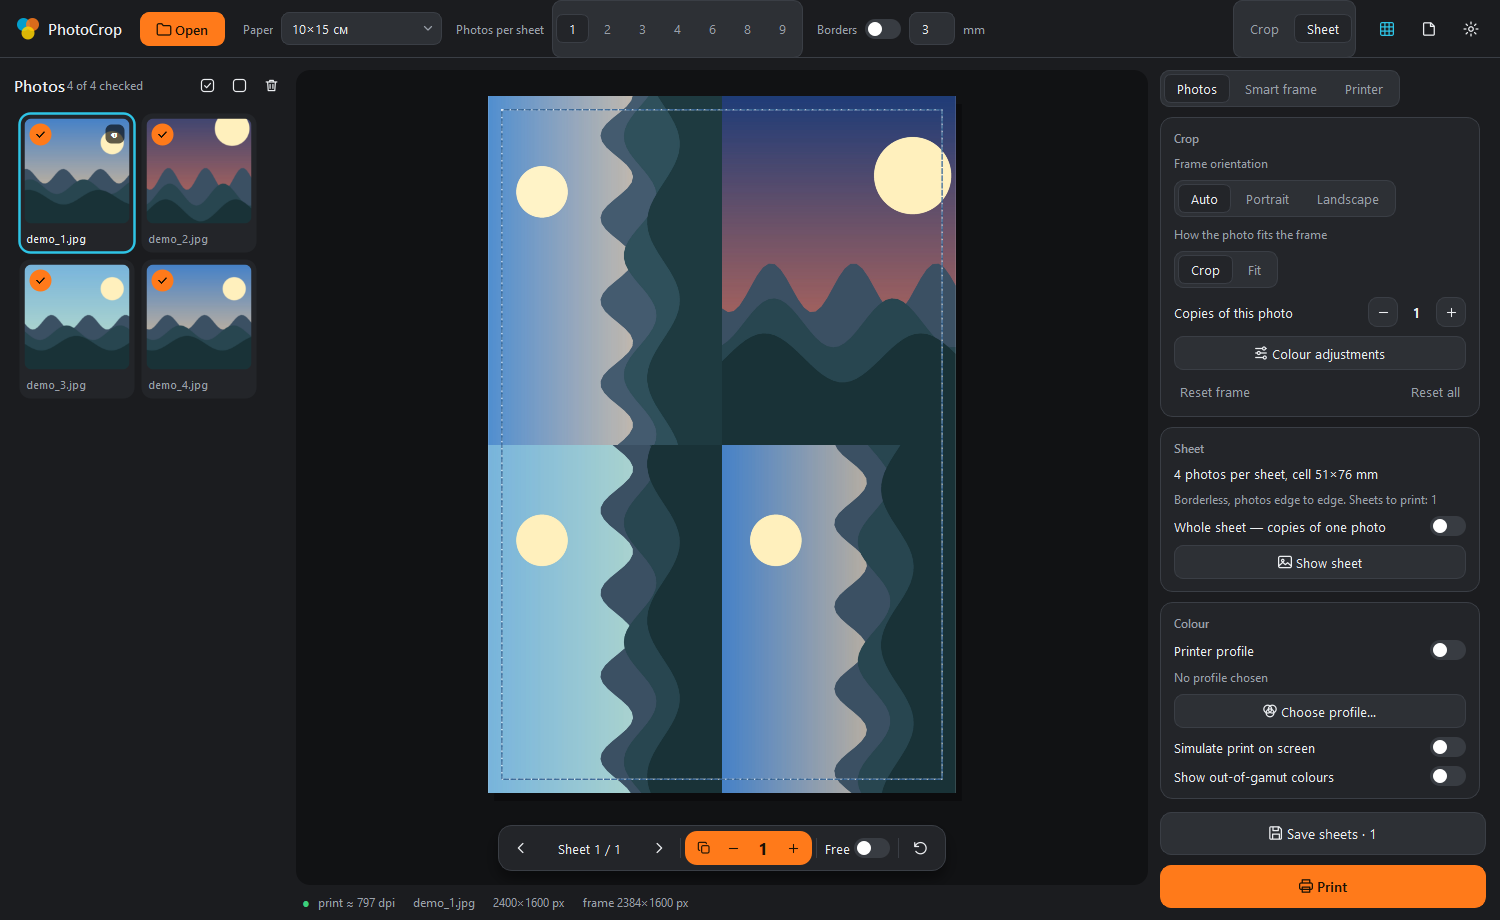
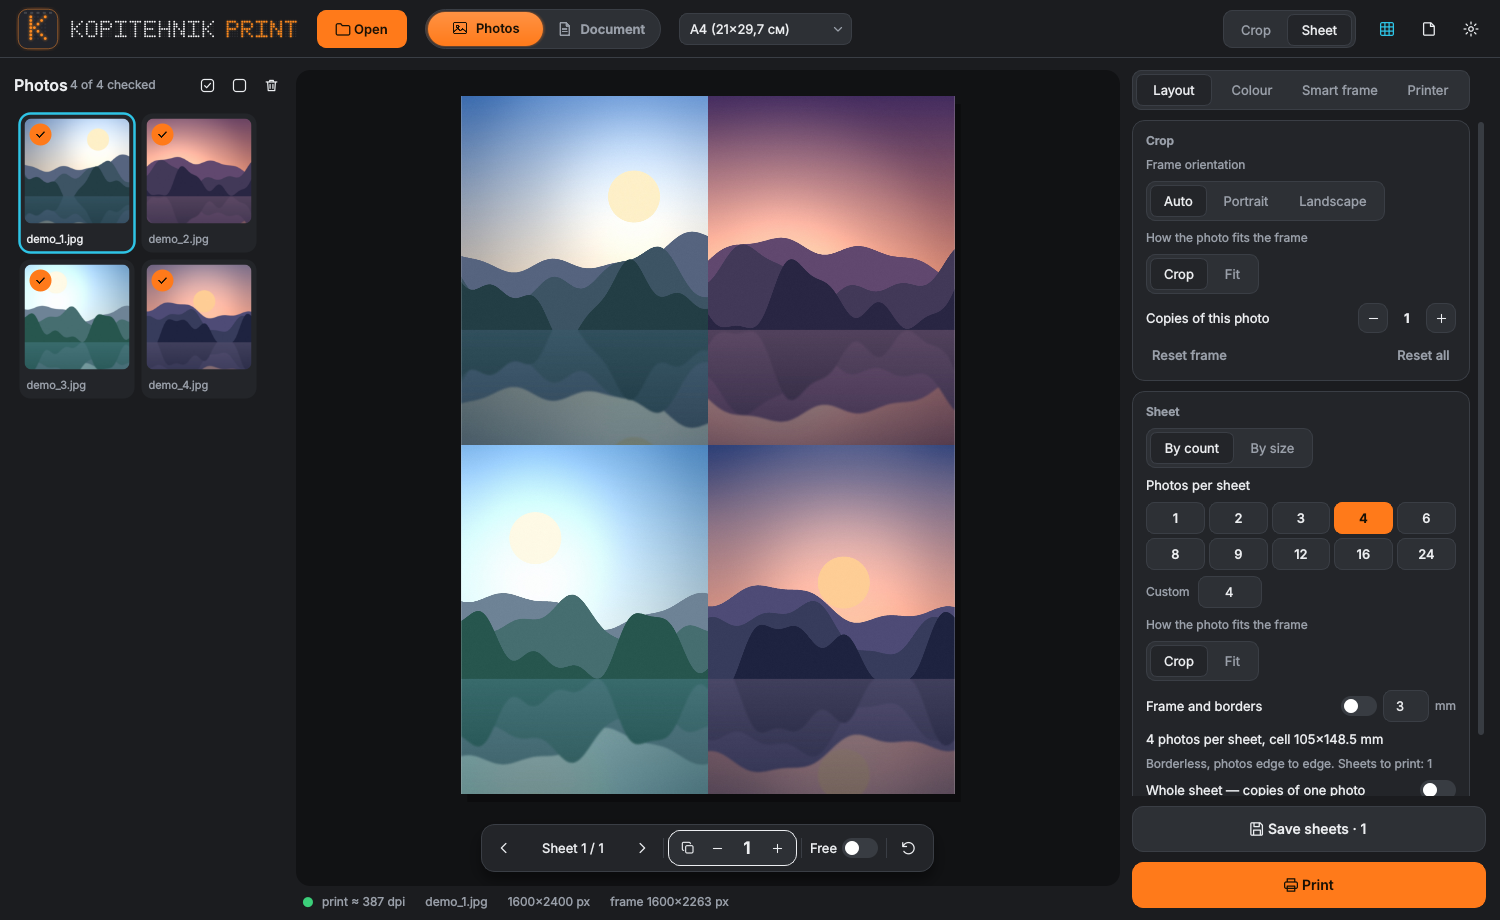
Update screenshots to the new interface
Claude-Session: https://claude.ai/code/session_01AHaxbweHv91n74KP21oAty

diff --git a/README.md b/README.md
@@ -21,9 +21,9 @@ License: free for personal use and for a business with one workstation at one lo
 
 ## Screenshots
 
-<p align="center"><img src="docs/promo.gif" alt="PhotoCrop animated overview" width="760"></p>
+<p align="center"><img src="docs/promo.gif" alt="KopiTehnik Print animated overview" width="760"></p>
 
-![PhotoCrop main window: crop frame on a demo photo](docs/screenshots/main-window.png)
+![KopiTehnik Print main window: crop frame on a demo photo](docs/screenshots/main-window.png)
 
 ![Colour adjustments page](docs/screenshots/color-adjustments.png)
 
